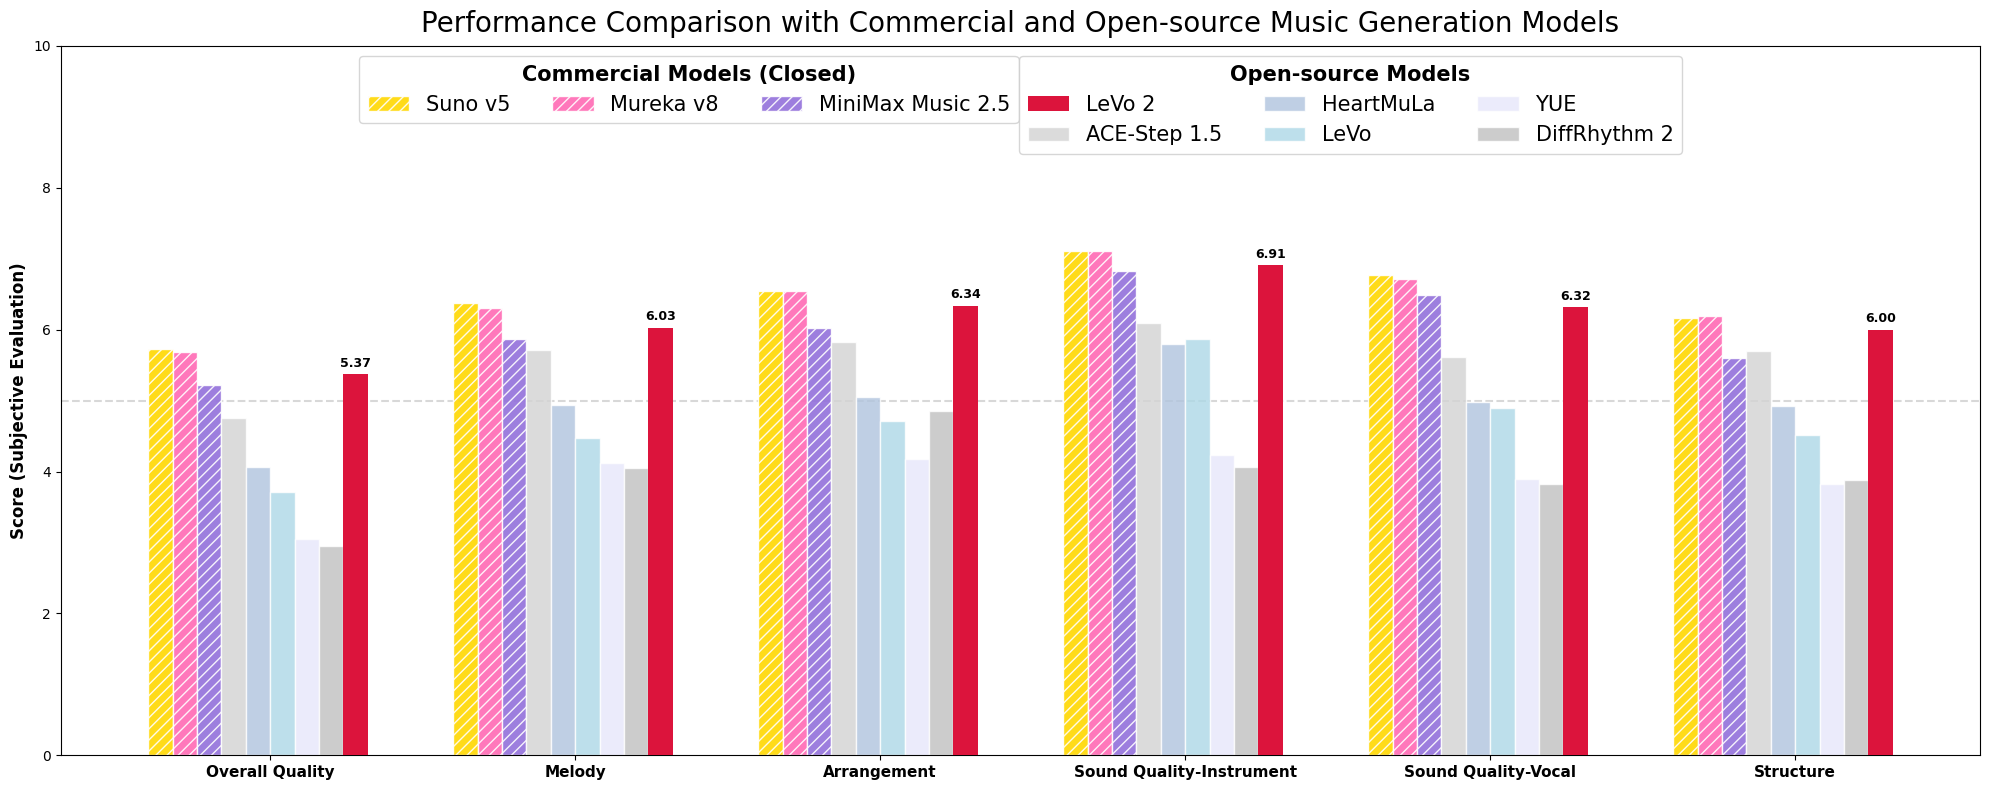
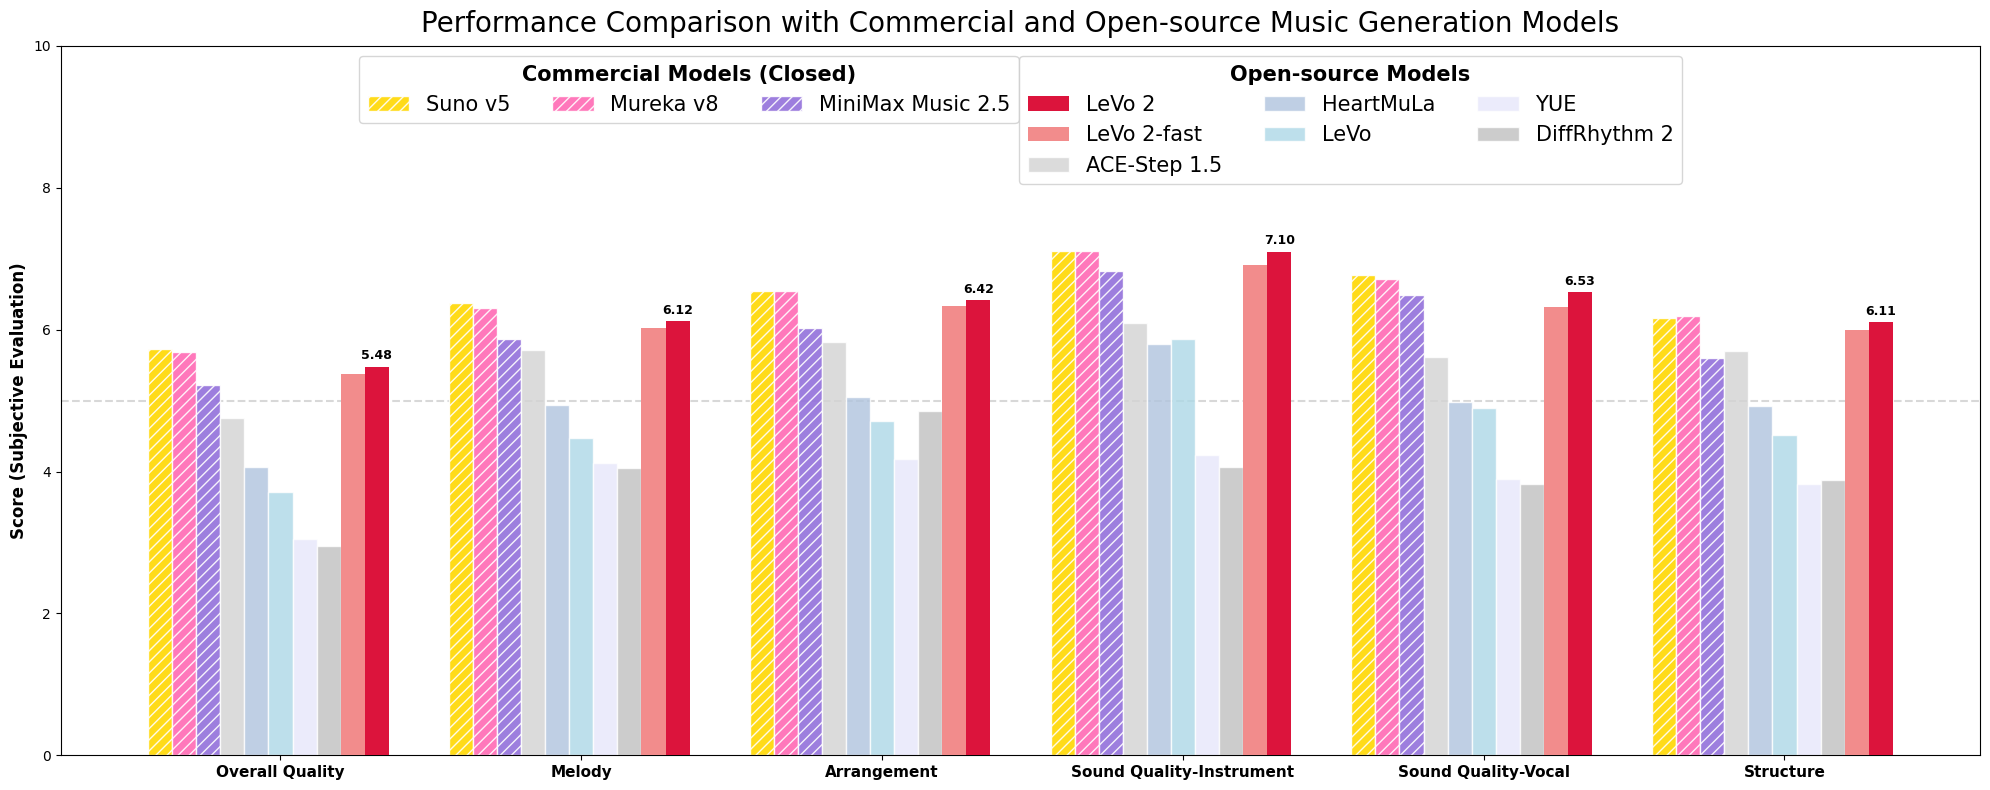
update exp

diff --git a/index.html b/index.html
@@ -85,8 +85,8 @@
           <p>
             🚀 We introduce <strong><a href="https://github.com/tencent-ailab/songgeneration" target="_blank" rel="noopener">LeVo 2</a></strong> (SongGeneration 2), an open-source foundation model achieving <strong>commercial-grade music generation</strong>. Through a <strong>large-scale expert evaluation</strong> (20 professionals, 6 dimensions, 100 songs per model), LeVo 2 is proven to <strong>outperform open-source baselines</strong> and <strong>rival commercial systems</strong> in Overall Quality, Melody, Arrangement, Sound Quality, and Structure, while matching many models in controllability assessments.<br>
             🧠 LeVo 2 adopts a <strong>Hybrid LLM-Diffusion Architecture</strong>. The Language Model acts as the <strong>"Composer Brain"</strong>, orchestrating the global musical structure and performance logic (solving <em>how</em> to sing and play), while the Diffusion Model serves as the <strong>"High-Fidelity Renderer"</strong> to synthesize intricate acoustic details. At its core, we pioneer Hierarchical Representation Modeling to perfectly balance musicality with audio fidelity. Crucially, we utilize a <strong>Multi-Stage Progressive Post-Training</strong> strategy to explicitly align the LLM with both <strong>controllability standards and music aesthetics prior</strong>. This alignment process drastically enhances the model's controllability, effectively eliminates lyrical hallucinations, and ensures the generation of <strong>stable, structurally coherent, melodious music</strong>.<br>
-            🎧 We are thrilled to release the <strong><a href="https://huggingface.co/lglg666/SongGeneration-v2-large" target="_blank" rel="noopener">SongGeneration-v2-large</a></strong> and <strong><a href="" target="_blank" rel="noopener">SongGeneration-v2-medium (coming soon)</a></strong> models, which support <strong>multilingual lyrics</strong> and offer versatile control via <strong>text descriptions, audio prompts, and style presets</strong>. Designed for accessibility, it can run locally with 22GB VRAM (Large) and as little as 12GB VRAM (Medium).<br>
-            ⚡ For an immediate experience, we also provide the <strong>SongGeneration-v2-Fast</strong> version on <a href="https://huggingface.co/spaces/tencent/SongGeneration" target="_blank" rel="noopener">HuggingFace Space</a>! You can now generate a complete song in <strong>under one minute</strong>, trading a slight loss in musicality for significantly faster generation speed.<br>
+            🎧 We are thrilled to release the <strong><a href="https://huggingface.co/lglg666/SongGeneration-v2-large" target="_blank" rel="noopener">LeVo-v2-large</a></strong> and <strong><a href="" target="_blank" rel="noopener">LeVo-v2-medium (coming soon)</a></strong> models, which support <strong>multilingual lyrics</strong> and offer versatile control via <strong>text descriptions, audio prompts, and style presets</strong>. Designed for accessibility, it can run locally with 22GB VRAM (Large) and as little as 12GB VRAM (Medium).<br>
+            ⚡ For an immediate experience, we also provide the <strong>LeVo-v2-fast</strong> version on <a href="https://huggingface.co/spaces/tencent/SongGeneration" target="_blank" rel="noopener">HuggingFace Space</a>! You can now generate a complete song in <strong>under one minute</strong>, trading a slight loss in musicality for significantly faster generation speed.<br>
           </p>
         </div>
 
